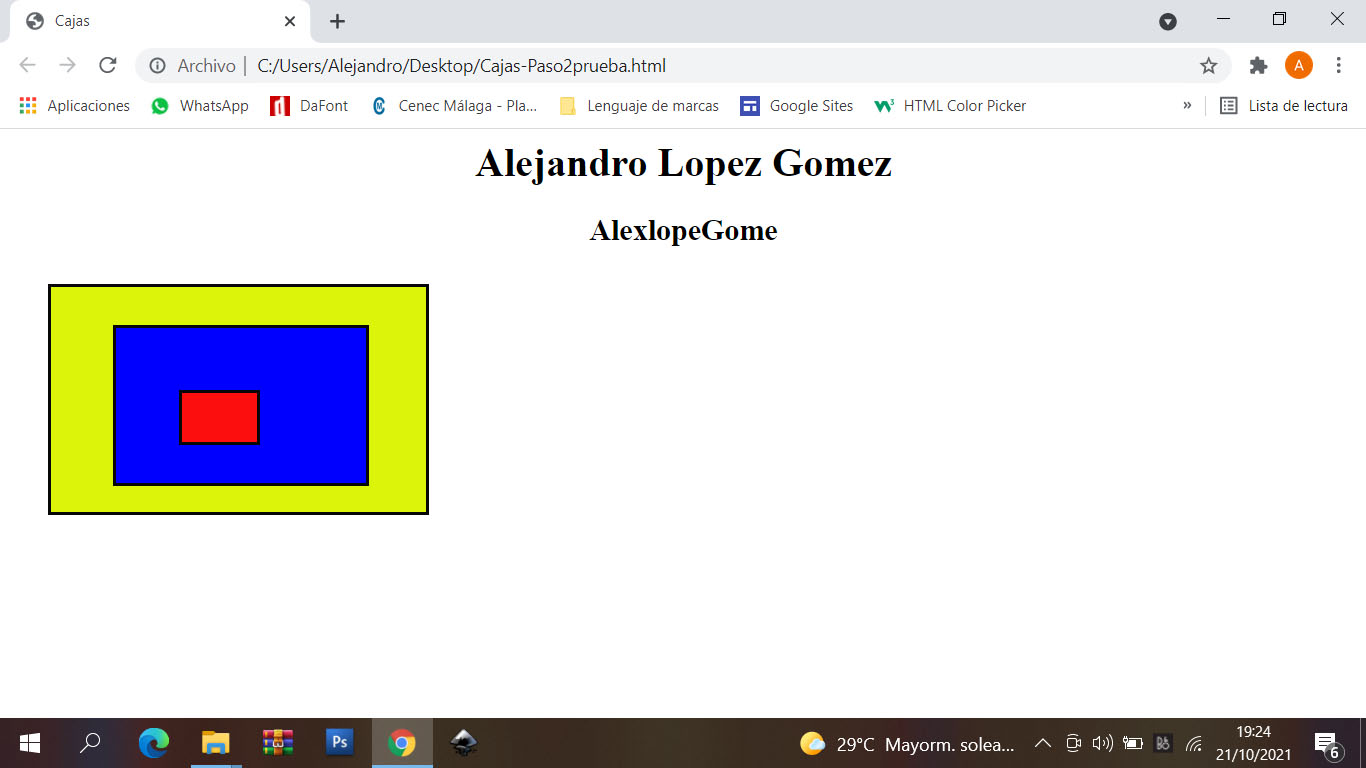
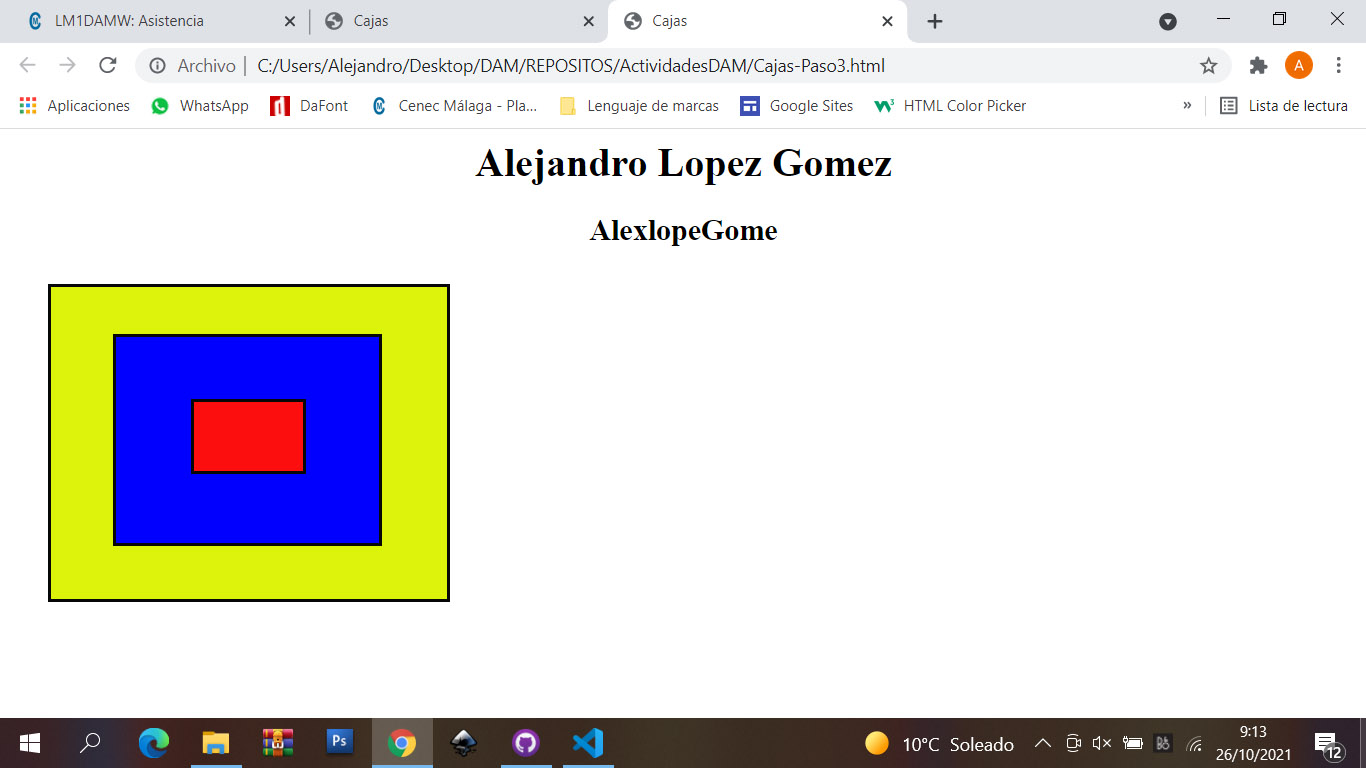
actualiza paso 3 html
actualiza

diff --git a/Cajas-Paso3.html b/Cajas-Paso3.html
@@ -21,7 +21,7 @@
 			background-color: rgb(220, 243, 10);
 			height: 100px;
 			width: 300px;
-			padding: 30px 0px 50px 0px;	
+			padding: 37px 17px 112px 0px;	
 			border-style: solid;
             border-color:rgb(7, 7, 7);
 		}
@@ -31,7 +31,7 @@
 			height: 50px;
 			width: 200px;
 			margin-left: 50px;
-			padding: 50px 0px 24px 0px;	
+			padding: 50px 0px 65px 10px;	
 			border-style:solid;
             border-color:rgb(7, 7, 7);
 		}
@@ -41,7 +41,7 @@
 			height: 30px;
 			width: 40px;
 			margin-left: 50;
-			padding: 9px 0px 0px 20px;	
+			padding: 5px 28px 20px 19px;	
 			border-style:solid;
             border-color:rgb(7, 7, 7);
 		}
